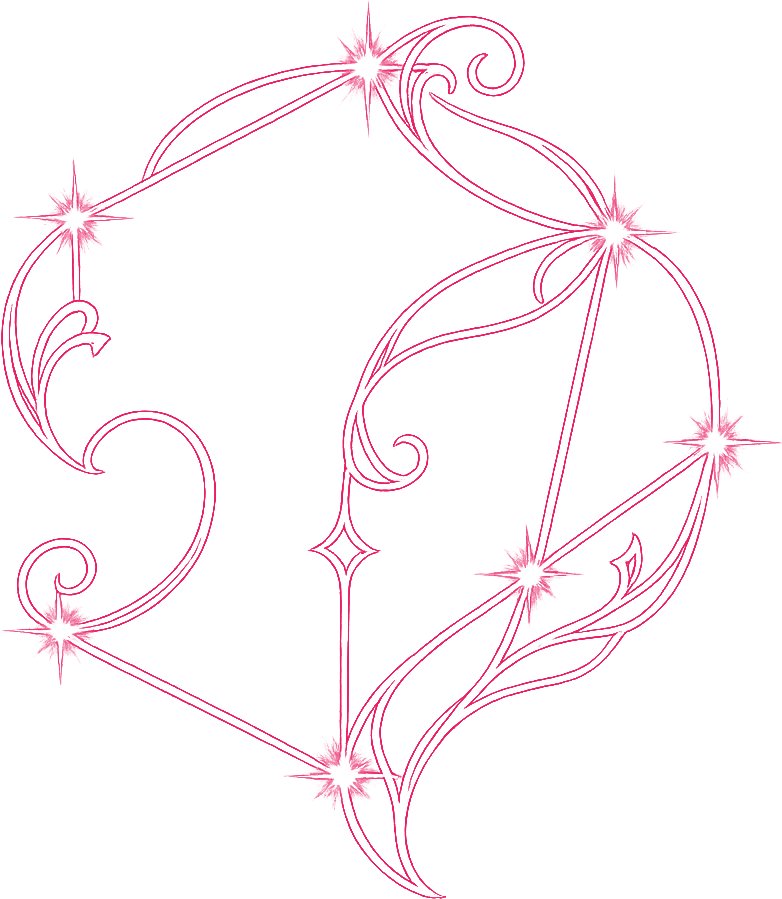
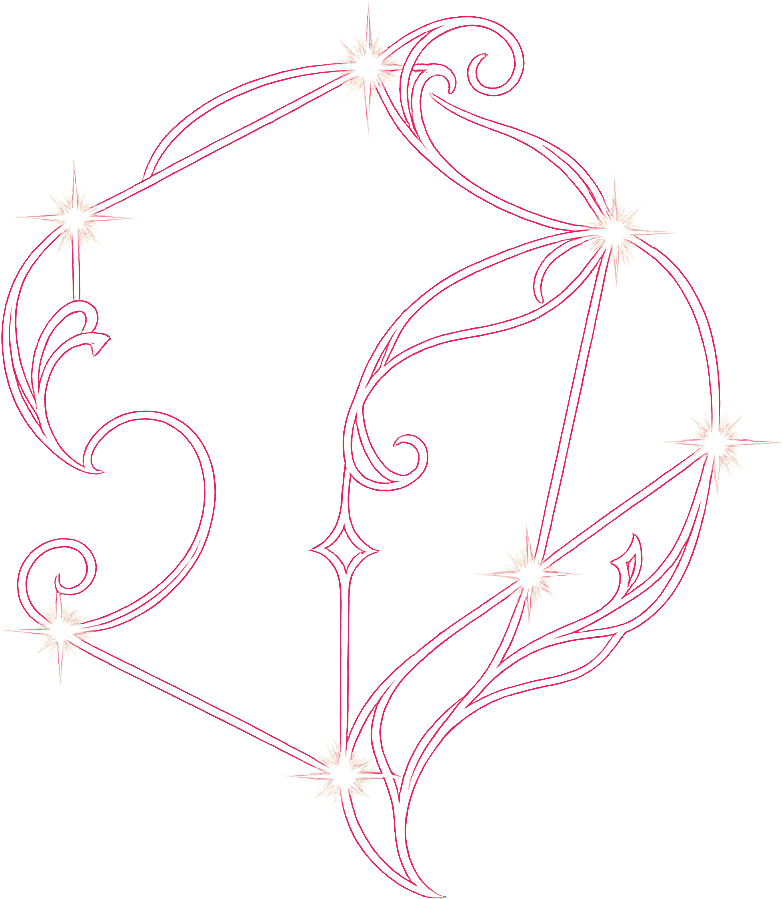
fix(orbita): align dim stars to the ornament's burst points, tame the flare
Four issues addressed at once on the Día hero:

1. **Stars on the ornament's stars.** The PNG has eight intrinsic
   burst points; the live dimension stars used to live at fixed
   STAR_POS coordinates that ignored them, producing two layered
   constellations (the ornament's, and the app's). Detected the burst
   centres programmatically — alpha-weighted white-core threshold,
   blob-merged within a 60 px halo radius — and rebuilt STAR_POS by
   running each fractional coordinate through the same IMG_X/Y/W/H
   mapping the <SvgImage> uses. Now MENTE sits on the top burst,
   CUERPO + ENERGÍA on the left bursts, SUEÑO + ALIMENTO on the right
   bursts, CICLO at the bottom — one figure, not two.
2. **Constellation fits.** The ornament rendered with `slice` was
   clipping the topmost and bottommost decorative tails. Switched to
   an explicit smaller box (280 × 322, centred at IMG_X = 46, IMG_Y
   = 20). Aspect matches the PNG so `meet` and `slice` resolve to the
   same output, but the figure now sits *inside* the canvas with
   ~50 px of breathing room top and bottom.
3. **Background dissolves cleanly.** The single 60 px topFade had no
   counterpart at the bottom — the figure ended on a hard rectangle
   edge. Added a matching bottomFade and bumped both to 70 px, so the
   ornament dissolves into colours.bg on both sides.
4. **The flare stops looking weird.** With the magenta ornament
   sitting behind everything now, the previous bloom radii (R × 5)
[…]

diff --git a/features/orbita/components/OrbitalSystem.tsx b/features/orbita/components/OrbitalSystem.tsx
@@ -68,27 +68,38 @@ const VB_H = 382
 // screen.
 const ZOOM_SCALE = 2.4
 
-// Three orbits — modelled after the triple-star reference photo. The
-// shapes are hand-tuned for each orbit's character (tall vertical,
-// two opposite diagonals meeting at the centre). They are FIXED,
-// independent of the dimensions: the orbits are the structural
-// drawing of the diagram, not derived from data.
+// The PNG ornament is rendered at (IMG_X, IMG_Y) with size (IMG_W,
+// IMG_H) inside the viewBox. The PNG itself is 782 × 899 pixels;
+// these constants both size the ornament and let us project the
+// art's intrinsic star centres (detected from the PNG, in fractional
+// coords) into the SVG's user space.
+const IMG_X = 46
+const IMG_Y = 20
+const IMG_W = 280
+const IMG_H = 322
 
-// Three dimensions live ON the orbits (at the prominent tip of each).
-// The other three are PERIPHERAL — distant stars in the field around
-// the orbital cluster, still part of the diagram but outside the main
-// dance. Active flows (mente/energía/alimento) anchor the orbits;
-// structural ones (cuerpo/sueño/ciclo) hover at the edges.
+// The art draws decorative bursts at fixed anchor points; the live
+// dimension stars MUST land on those bursts so the constellation
+// reads as one figure, not two layers. Fractional positions were
+// detected programmatically from the PNG (cluster of pixels above
+// the white-core threshold, blob-merged within a 60-px halo radius).
+// `fx, fy` here go through the same mapping the <SvgImage> uses, so
+// any time IMG_X/Y/W/H change the stars move with the art.
+function ornamentPos(fx: number, fy: number): { x: number; y: number } {
+  return { x: IMG_X + fx * IMG_W, y: IMG_Y + fy * IMG_H }
+}
+
 const STAR_POS: Record<DimensionKey, { x: number; y: number }> = {
-  // Orbital trio — on the outer tips of each ellipse's major axis.
-  // The vertical orbit's slight tilt nudges MENTE a touch right.
-  mente: { x: 194, y: 26 },
-  energia: { x: 79, y: 284 },
-  alimento: { x: 293, y: 284 },
-  // Peripheral trio — around the cluster, outside the orbits.
-  cuerpo: { x: 45, y: 130 },
-  sueno: { x: 325, y: 130 },
-  ciclo: { x: 185, y: 325 },
+  // Top burst — slightly right of centre.
+  mente: ornamentPos(0.471, 0.072),
+  // Left side: upper burst and lower burst.
+  cuerpo: ornamentPos(0.1, 0.25),
+  energia: ornamentPos(0.08, 0.699),
+  // Right side: upper-right burst and the central-diamond burst.
+  sueno: ornamentPos(0.79, 0.259),
+  alimento: ornamentPos(0.671, 0.638),
+  // Bottom burst.
+  ciclo: ornamentPos(0.432, 0.861),
 }
 
 const AnimatedG = Animated.createAnimatedComponent(G)
@@ -241,19 +252,20 @@ export function OrbitalSystem({
           <Cosmos t={t} drift={drift} />
 
           {/* The ornamental constellation drawing — scrollwork and
-              decorative curves around the dimension stars. `slice`
-              fills the whole viewBox by width AND height, clipping
-              the tip/tail flourishes that fall outside (preferable
-              to the empty side margins `meet` was leaving). The
-              opacity holds the line art back so it sits *behind* the
-              live luminous stars, not over them. */}
+              decorative curves around the dimension stars. Sized
+              smaller than the full viewBox so the figure fits within
+              the topFade + bottomFade dissolve, and so the live
+              dimension stars (whose positions are computed from the
+              same IMG_X/Y/W/H constants) land exactly on the art's
+              own burst points. Aspect of the box matches the PNG, so
+              `meet` and `slice` resolve to the same output. */}
           <SvgImage
-            x={0}
-            y={VB_TOP}
-            width={W}
-            height={VB_H}
+            x={IMG_X}
+            y={IMG_Y}
+            width={IMG_W}
+            height={IMG_H}
             href={diaOrnamentPng}
-            preserveAspectRatio="xMidYMid slice"
+            preserveAspectRatio="xMidYMid meet"
             opacity={0.82}
           />
 
@@ -314,16 +326,21 @@ export function OrbitalSystem({
         />
       )}
 
-      {/* Top-edge fade — a static native overlay (cheap). An SVG
-          mask would composite the diagram correctly, but masking
-          this group's eight continuous animation clocks forced a
-          per-frame re-composite and tanked the tab's performance.
-          The overlay paints colours.bg → transparent: it covers the
-          very top of the diagram (mostly sparse headroom stars), so
-          the diagram emerges instead of starting on a hard edge. */}
+      {/* Top + bottom edge fades — static native gradients (cheap).
+          The constellation now sits centred inside the canvas with
+          breathing room above and below; both edges dissolve into
+          colours.bg so the figure floats in the page instead of
+          ending on hard rectangle edges. (An SVG mask would do this
+          inside the SVG too, but masking the animated content group
+          forced a per-frame re-composite and tanked performance.) */}
       <FadeGradient
         colors={[colors.bg, 'transparent']}
         style={styles.topFade}
+        pointerEvents="none"
+      />
+      <FadeGradient
+        colors={['transparent', colors.bg]}
+        style={styles.bottomFade}
         pointerEvents="none"
       />
     </View>
@@ -352,18 +369,18 @@ function CenterStar({ t }: { t: SharedValue<number> }) {
 
   return (
     <AnimatedG animatedProps={breath}>
-      {/* Bloom — soft layered halo. The outermost layer is wide and
-          almost invisible; it gives the eye a sense of light spilling
-          beyond the bright disc without flooding the field. */}
-      <Circle cx={CX} cy={CY} r={CORE_R * 7} fill={colors.magenta} opacity={0.015} />
-      <Circle cx={CX} cy={CY} r={CORE_R * 4.2} fill={colors.magenta} opacity={0.06} />
-      <Circle cx={CX} cy={CY} r={CORE_R * 2.6} fill={colors.magenta} opacity={0.12} />
-      <Circle cx={CX} cy={CY} r={CORE_R * 1.6} fill={colors.magenta} opacity={0.22} />
-      {/* Diffraction spikes — only the centre carries the cross, and
-          only the cardinal pair. The "+" tells the eye this is the
-          brightest body in the field; no diagonals so it stays
-          minimal. */}
-      <DiffractionSpikes x={CX} y={CY} length={CORE_R * 5} opacity={0.4} strokeWidth={0.7} />
+      {/* Bloom — soft layered halo. Tighter than before now that the
+          ornament's central diamond sits behind the core; the very
+          wide outermost layers were creating a magenta wash over the
+          art. The bright disc carries most of the centre's weight. */}
+      <Circle cx={CX} cy={CY} r={CORE_R * 4.2} fill={colors.magenta} opacity={0.03} />
+      <Circle cx={CX} cy={CY} r={CORE_R * 2.6} fill={colors.magenta} opacity={0.07} />
+      <Circle cx={CX} cy={CY} r={CORE_R * 1.6} fill={colors.magenta} opacity={0.14} />
+      {/* Diffraction spikes — shorter and softer than before. The
+          previous CORE_R * 5 with 0.4 opacity painted a high-contrast
+          cross over the magenta ornament that read as a visual glitch
+          rather than a flare. */}
+      <DiffractionSpikes x={CX} y={CY} length={CORE_R * 3} opacity={0.25} strokeWidth={0.5} />
       {/* The point itself. */}
       <Circle cx={CX} cy={CY} r={CORE_R} fill="url(#orb-self)" />
       <Circle cx={CX} cy={CY} r={CORE_R * 0.5} fill="#FFFFFF" opacity={0.85} />
@@ -510,9 +527,12 @@ function StarNode({
   // Small stars — size driven by brightness, with a clear gap
   // between en luz and lejos so the eye reads them as different
   // states. The core is the bright disc; the bloom is the halo.
+  // Bloom/aura sized down from the old orbital diagram now that the
+  // PNG carries its own burst halo behind each star — the previous
+  // R*5 made big magenta blobs that fought the ornament.
   const R = enLuz ? 3.2 + b * 2.6 : 2
-  const bloomR = enLuz ? R * 5 : R * 2.5
-  const auraR = enLuz ? R * 2.6 : R * 1.6
+  const bloomR = enLuz ? R * 2.8 : R * 1.6
+  const auraR = enLuz ? R * 1.7 : R * 1.2
 
   // Each star breathes on its own phase so the constellation feels
   // alive but not synchronised.
@@ -562,30 +582,32 @@ function StarNode({
         />
       ) : null}
       <AnimatedG animatedProps={breath}>
-        {/* Bloom — the star's outer light. Only en luz stars carry a
-            wide halo; lejos ones stay tight. */}
+        {/* Bloom — the star's outer light. Soft, low-opacity now
+            (the PNG ornament already paints its own burst behind
+            each anchor, so the live star is the bright POINT, not
+            another big halo). */}
         <Circle
           cx={x}
           cy={y}
           r={bloomR}
           fill={colors.magenta}
-          opacity={enLuz ? 0.07 + b * 0.13 : 0.06}
+          opacity={enLuz ? 0.04 + b * 0.08 : 0.04}
         />
-        <Circle cx={x} cy={y} r={auraR} fill="#FBD7E3" opacity={enLuz ? 0.1 + b * 0.18 : 0.08} />
-        {/* When this star is the focus of the zoom, lay a full
-            lens-flare starburst behind the point — long horizontal +
-            vertical streaks with diagonal whiskers. The outer zoom
-            transform amplifies the streaks 2.4× so they fan out across
-            the framed view, exactly the "Constellation Lv. 6" beat
-            from the reference image. */}
+        <Circle cx={x} cy={y} r={auraR} fill="#FBD7E3" opacity={enLuz ? 0.06 + b * 0.1 : 0.05} />
+        {/* When this star is the focus of the zoom, a discreet
+            lens-flare starburst — shorter and softer than the centre
+            star's, because the outer zoom transform amplifies it
+            2.4× already. The previous R*12 length + 0.85 opacity
+            turned into a screen-filling cross when scaled; R*6 with
+            opacity 0.55 reads as a flare not a flash. */}
         {selected ? (
           <DiffractionSpikes
             x={x}
             y={y}
-            length={R * 12}
-            opacity={0.85}
-            diagOpacity={0.35}
-            strokeWidth={0.9}
+            length={R * 6}
+            opacity={0.55}
+            diagOpacity={0.22}
+            strokeWidth={0.55}
           />
         ) : null}
         {/* Selection crown — sits between the aura and the bright
@@ -649,15 +671,22 @@ const styles = StyleSheet.create({
     right: 0,
     bottom: 0,
   },
-  // The diagram dissolves into the page across its top. Static
-  // native gradient — zero per-frame cost (an SVG mask was the right
-  // visual but compositing it over the animated group every frame
-  // was too expensive).
+  // The diagram dissolves into the page across both its top and
+  // bottom edges. Static native gradients — zero per-frame cost (an
+  // SVG mask was the right visual but compositing it over the
+  // animated group every frame was too expensive).
   topFade: {
     position: 'absolute',
     top: 0,
     left: 0,
     right: 0,
-    height: 60,
+    height: 70,
+  },
+  bottomFade: {
+    position: 'absolute',
+    bottom: 0,
+    left: 0,
+    right: 0,
+    height: 70,
   },
 })